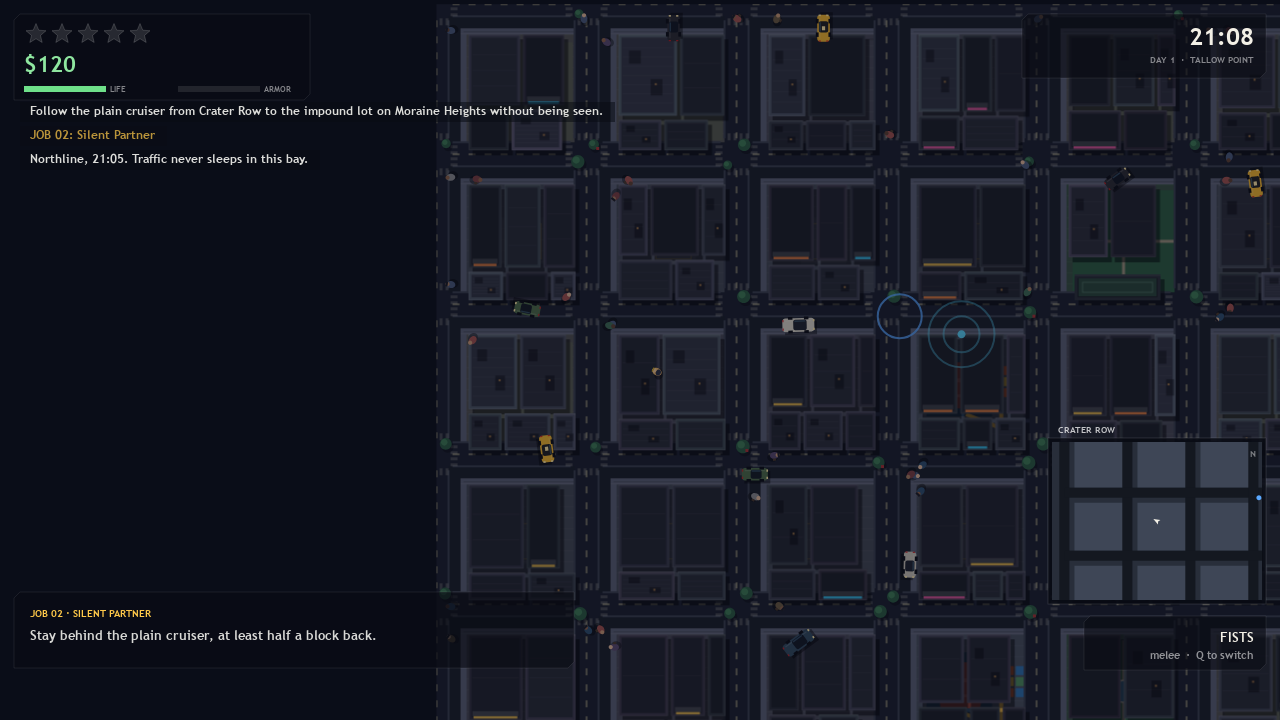
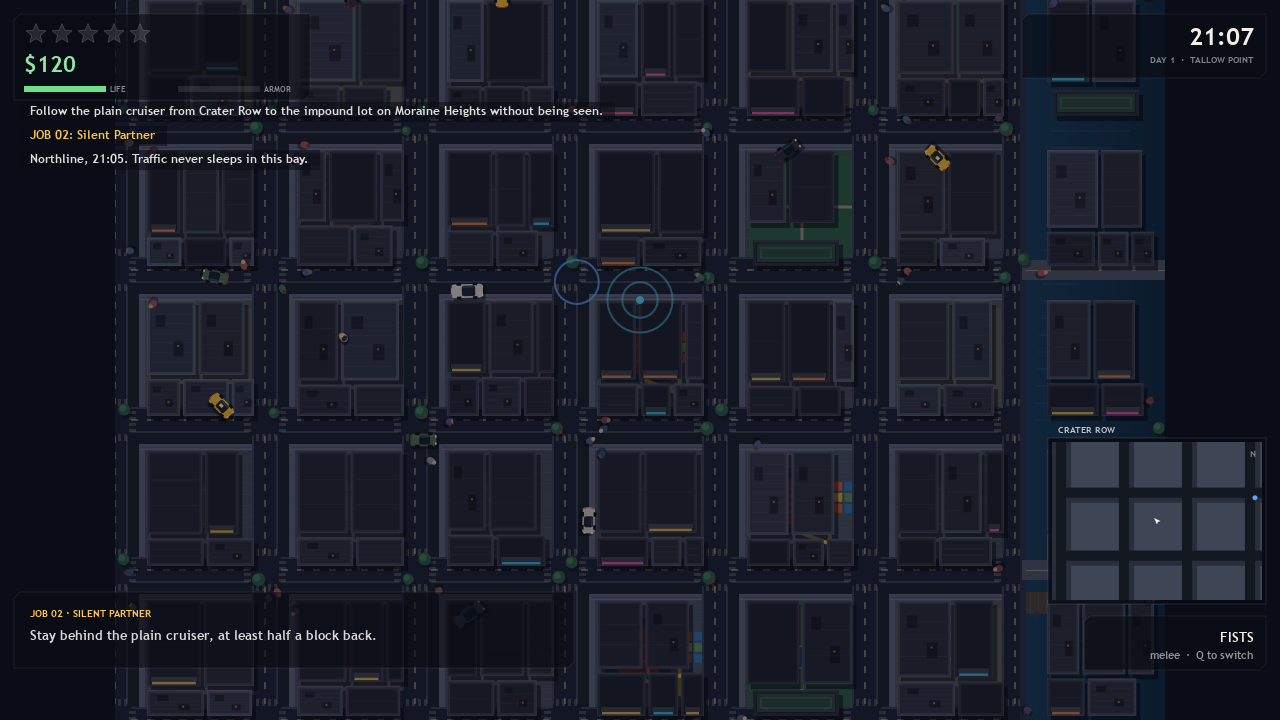
Clamp the camera to the city: stop the view at the map edge so the city shot shows no void
The camera followed the player and the courier opens on Northline, so half
the frame sat outside the world where paintGround never draws. createRenderer
now exposes clampCamera (halfW/halfH from the same margin paintGround uses),
stepWorld calls it through game.clampCamera for every shot and in play, and
setupShot clamps after placing the opening camera. 2-city.png re-shot.

diff --git a/game/src/render.js b/game/src/render.js
@@ -36,6 +36,23 @@ export function createRenderer(canvas) {
     paintGround(g, city);
   }
 
+  // A camera looks down on the city; the wash behind it never covers anything outside the map,
+  // so the camera stops at the edge of the world instead of showing void past it. The margin
+  // matches the one paintGround keeps when it cuts the ground layer, so the frame is all city.
+  function cameraMargin(viewW, viewH, zoom) {
+    return {
+      halfW: viewW / (2 * zoom) + 30,
+      halfH: viewH / (2 * zoom) + 30,
+    };
+  }
+
+  function clampCamera(camera, viewW = viewWidth, viewH = viewHeight) {
+    const zoom = camera.zoom || 1;
+    const { halfW, halfH } = cameraMargin(viewW, viewH, zoom);
+    camera.x = Math.max(Math.min(WORLD / 2, halfW), Math.min(Math.max(WORLD / 2, WORLD - halfW), camera.x));
+    camera.y = Math.max(Math.min(WORLD / 2, halfH), Math.min(Math.max(WORLD / 2, WORLD - halfH), camera.y));
+  }
+
   function cameraTransform(state) {
     const zoom = state.camera.zoom;
     const scale = dpr * zoom;
@@ -88,7 +105,7 @@ export function createRenderer(canvas) {
     drawLighting(ctx, state, left, top, right, bottom, time);
   }
 
-  return { ctx, resize, setCity, draw, screenToWorld, get view() { return { width: viewWidth, height: viewHeight, dpr }; } };
+  return { ctx, resize, setCity, draw, screenToWorld, clampCamera, get view() { return { width: viewWidth, height: viewHeight, dpr }; } };
 }
 
 function paintGround(g, city) {

diff --git a/game/src/update.js b/game/src/update.js
@@ -93,7 +93,7 @@ export function stepWorld(game, dt, controls) {
     state.player.hp = Math.min(100, state.player.hp + dt * 5);
   }
   if (state.player.cash < 0) state.player.cash = 0;
-  updateCamera(state, dt, controls);
+  updateCamera(state, dt, controls, game.clampCamera);
   return state.events;
 }
 
@@ -364,7 +364,7 @@ function emitEffects(state, dt) {
   state.effects = state.effects.filter((effect) => effect.life > 0);
 }
 
-function updateCamera(state, dt, controls) {
+function updateCamera(state, dt, controls, clampCamera) {
   const inCar = Boolean(state.vehicle);
   const target = state.vehicle ?? state.player;
   const aimAngle = Math.atan2(controls.aimY - state.player.y, controls.aimX - state.player.x);
@@ -375,6 +375,7 @@ function updateCamera(state, dt, controls) {
   const follow = Math.min(1, dt * 5.2);
   state.camera.x += (wantX - state.camera.x) * follow;
   state.camera.y += (wantY - state.camera.y) * follow;
+  if (clampCamera) clampCamera(state.camera);
   state.camera.shake = Math.max(0, state.camera.shake - dt * 2.2);
 }
 

diff --git a/game/src/main.js b/game/src/main.js
@@ -407,7 +407,10 @@ function setupShot(name) {
   }
   state.camera.x = state.player.x;
   state.camera.y = state.player.y;
+  renderer.clampCamera(state.camera);
 }
+
+game.clampCamera = (camera) => renderer.clampCamera(camera);
 
 setupShot(shot);
 if (shot === 'city' || shot === 'chase') {
